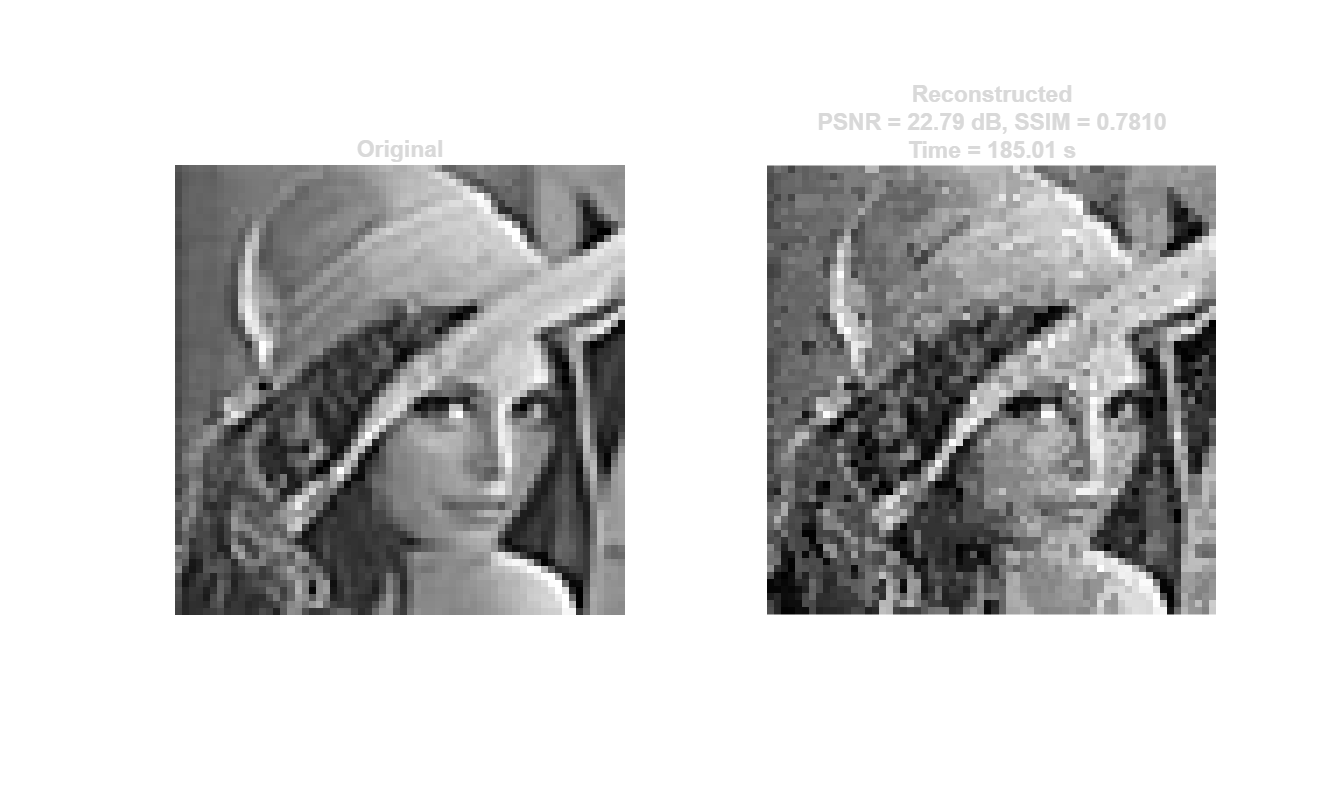
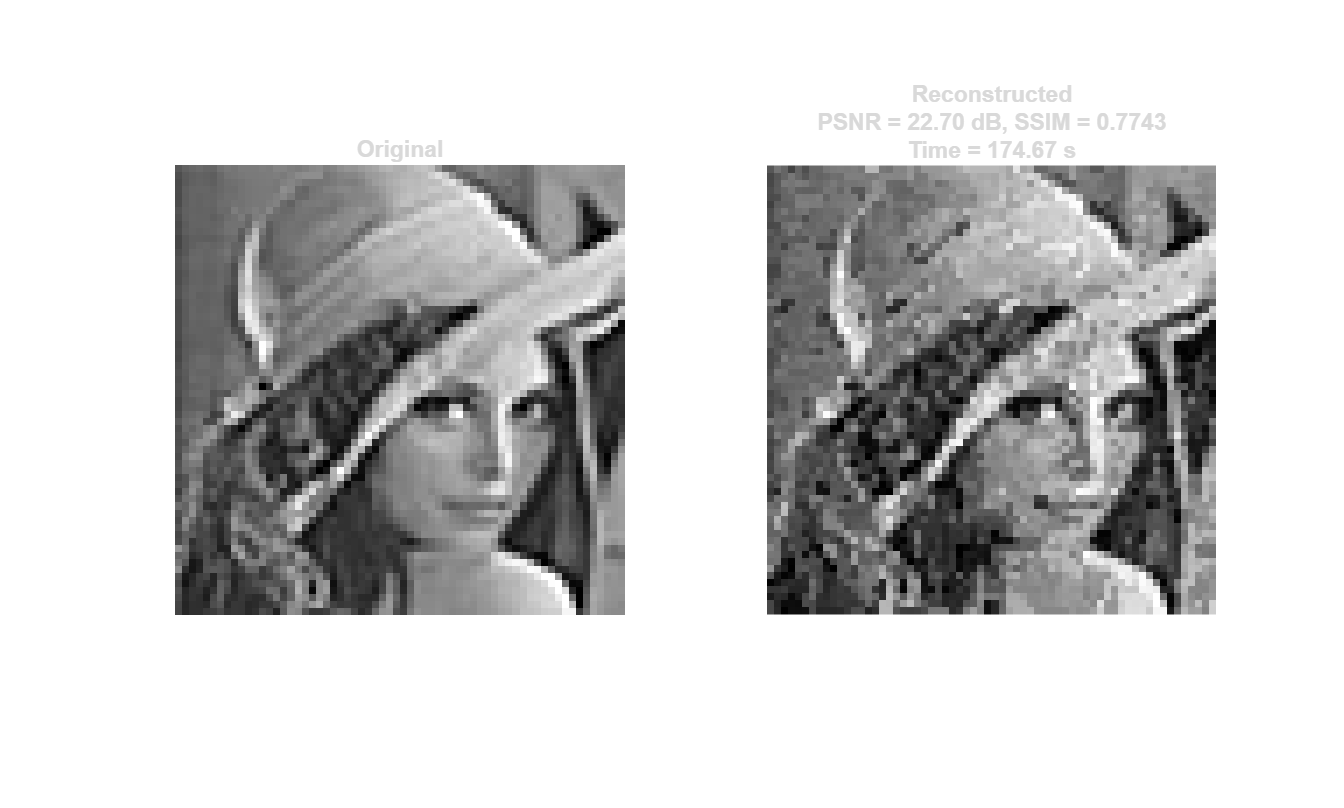
added mask feature

diff --git a/core/auto_crop_saliency.m b/core/auto_crop_saliency.m
@@ -1,0 +1,74 @@
+function img_cropped = auto_crop_saliency(img, target_size, margin_frac)
+%AUTO_CROP_SALIENCY Automatically crop to the visually "busiest"/most
+%salient region of an image, using edge-density as a proxy for interest.
+%
+% INPUTS:
+%   img          : grayscale image (any size)
+%   target_size  : [rows cols] final crop-and-resize target, e.g. [64 64]
+%   margin_frac  : fraction of bounding box size to pad on each side
+%                  (default 0.15 = 15% padding)
+%
+% OUTPUT:
+%   img_cropped  : img cropped to the salient region and resized to target_size
+
+if nargin < 3
+    margin_frac = 0.15;
+end
+
+img = im2double(img);
+
+%% Step 1: edge map
+edges = edge(img, 'Canny');
+
+%% Step 2: smooth to find dense/busy regions (not just single edge pixels)
+density = imgaussfilt(double(edges), 15);
+
+%% Step 3: threshold to get a binary mask of "interesting" region
+thresh = 0.25 * max(density(:));
+mask = density > thresh;
+
+% Safety fallback: if nothing passes threshold (near-blank image), use whole image
+if ~any(mask(:))
+    img_cropped = imresize(img, target_size, 'bicubic');
+    warning('auto_crop_saliency: no salient region found, using full image.');
+    return;
+end
+
+%% Step 4: clean up mask (remove tiny specks, fill small holes)
+mask = imopen(mask, strel('disk', 3));
+mask = imclose(mask, strel('disk', 5));
+mask = imfill(mask, 'holes');
+
+
+
+figure; imshowpair(img, mask, 'montage'); title('Original vs Saliency Mask');
+
+
+%% Step 5: find bounding box of largest connected salient region
+stats = regionprops(mask, 'BoundingBox', 'Area');
+if isempty(stats)
+    img_cropped = imresize(img, target_size, 'bicubic');
+    warning('auto_crop_saliency: no connected region found, using full image.');
+    return;
+end
+[~, idx] = max([stats.Area]);
+bbox = stats(idx).BoundingBox;   % [x y width height]
+
+%% Step 6: add margin/padding around the bounding box
+[Ny, Nx] = size(img);
+pad_x = bbox(3) * margin_frac;
+pad_y = bbox(4) * margin_frac;
+
+x1 = max(1,  bbox(1) - pad_x);
+y1 = max(1,  bbox(2) - pad_y);
+x2 = min(Nx, bbox(1) + bbox(3) + pad_x);
+y2 = min(Ny, bbox(2) + bbox(4) + pad_y);
+
+crop_rect = [x1, y1, (x2-x1), (y2-y1)];
+
+%% Step 7: crop and resize to target
+img_region = imcrop(img, crop_rect);
+img_cropped = imresize(img_region, target_size, 'bicubic');
+
+
+end

diff --git a/core/display_comparison.m b/core/display_comparison.m
@@ -1,12 +1,16 @@
-function display_comparison(O,O_star,psnr_val,ssim_val, total_time)
+function display_comparison(img,O,O_star,psnr_val,ssim_val, total_time)
 
     figure('Color','w');
+
+    subplot(1,3,1)
+    imshow(uint8(img),[]);
+    title('Original');
     
-    subplot(1,2,1)
+    subplot(1,3,2)
     imshow(uint8(O),[]);
     title('Original');
     
-    subplot(1,2,2)
+    subplot(1,3,3)
     imshow(uint8(O_star),[]);
     title(sprintf('Reconstructed\nPSNR = %.2f dB, SSIM = %.4f\nTime = %0.2f s', psnr_val, ssim_val, total_time));
 
